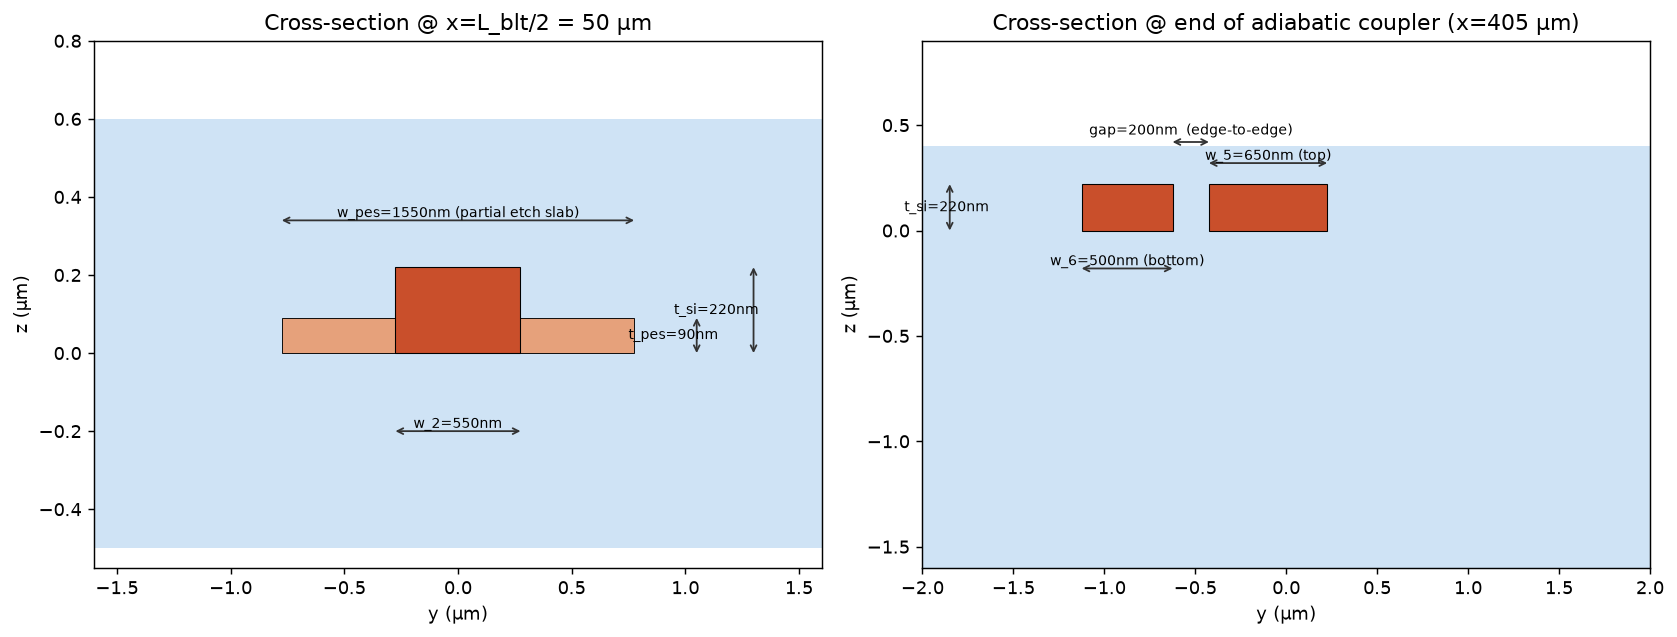
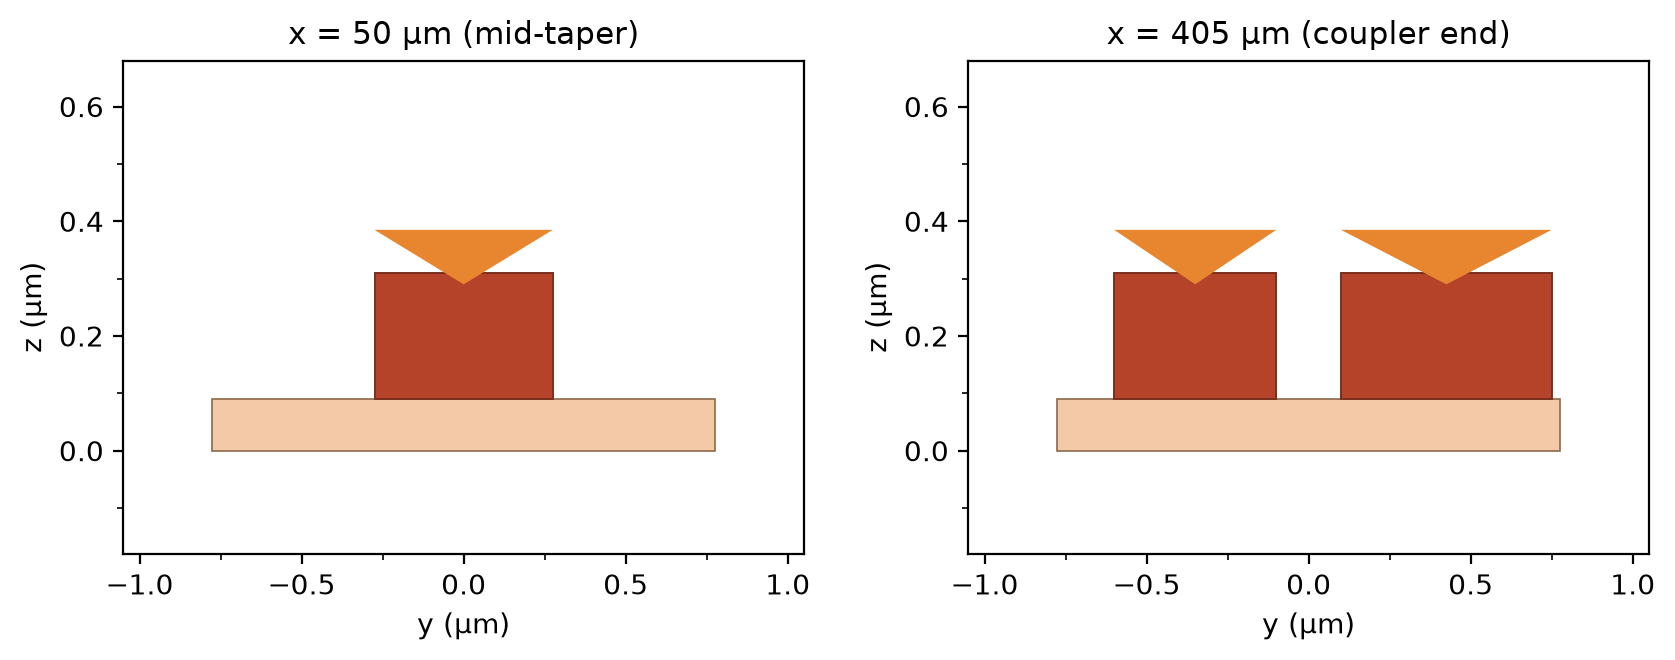
Split the whole-device figure into its two z-slice panels, redraw the cross-section figure in the clean plane-plot style (no dimension text on the figure), and use smaller markers in the column-sum figure

diff --git a/tools/make_fig_cross_sections.py b/tools/make_fig_cross_sections.py
@@ -1,0 +1,67 @@
+# make_fig_cross_sections.py -- fig 2 of the manuscript: the two cross-sections of the device,
+# drawn in the clean "plane plot" style asked for on 2026-09-28 (µm axes with ticks, a panel
+# frame, ports marked with arrows, and NO dimension text on the figure -- every dimension is
+# stated in the manuscript caption).
+#
+# Geometry: DEVICES["psr_rotator"] of make_structure_fig.py (slab 1.55 µm wide, 90 nm partial
+# etch, 220 nm Si, 200 nm edge-to-edge gap, w2 = 550 nm at mid-taper, w5/w6 = 650/500 nm at the
+# coupler end).
+#
+# Saved through fig_channel's metadata convention but WITHOUT the on-figure footer (author's
+# request: the footer blocked the drawing); the statement still goes into the PNG tEXt chunk.
+import os
+import sys
+
+import matplotlib
+
+matplotlib.use("Agg")
+import matplotlib.pyplot as plt                                          # noqa: E402
+from matplotlib.patches import Polygon, Rectangle                        # noqa: E402
+from matplotlib.ticker import AutoMinorLocator                           # noqa: E402
+
+HERE = os.path.dirname(os.path.abspath(__file__))
+sys.path.insert(0, HERE)
+import fig_channel as FC                                                 # noqa: E402
+
+OUT = os.path.join(HERE, "..", "figures", "device_cross_section.png")
+PROV = ("cross-sections re-drawn from the DEVICES['psr_rotator'] geometry "
+        "(not a solver export)")
+
+T_PES, T_SI = 0.090, 0.220            # partial-etch slab and Si thickness (µm)
+W_PES = 1.550                         # slab width (µm)
+GAP = 0.200                           # edge-to-edge gap between the two arms (µm)
+W2 = 0.550                            # rib width at x = 50 µm (mid-taper)
+W5, W6 = 0.650, 0.500                 # coupler arms (µm)
+
+SI = "#b5432a"                        # silicon
+PES = "#f3c9a8"                       # partial-etch slab
+PORT = "#e8862f"                      # port arrows (same language as the reference figure)
+
+PANELS = (
+    ("x = 50 µm (mid-taper)", [(0.0, W2)]),
+    ("x = 405 µm (coupler end)", [(+(GAP + W5) / 2, W5), (-(GAP + W6) / 2, W6)]),
+)
+
+fig, axs = plt.subplots(1, 2, figsize=(8.6, 3.4), dpi=200)
+for ax, (title, ribs) in zip(axs, PANELS):
+    ax.add_patch(Rectangle((-W_PES / 2, 0.0), W_PES, T_PES, fc=PES, ec="#8a6a4a",
+                           lw=0.6, zorder=2))
+    for yc, w in ribs:
+        ax.add_patch(Rectangle((yc - w / 2, T_PES), w, T_SI, fc=SI, ec="#7a2f1c",
+                               lw=0.7, zorder=3))
+        ax.add_patch(Polygon([[yc - w / 2, T_PES + T_SI + 0.075],
+                              [yc + w / 2, T_PES + T_SI + 0.075],
+                              [yc, T_PES + T_SI - 0.02]],
+                             closed=True, fc=PORT, ec="none", zorder=4))
+    ax.set_xlim(-1.05, 1.05)
+    ax.set_ylim(-0.18, 0.68)
+    ax.set_xlabel("y (µm)", fontsize=10)
+    ax.set_ylabel("z (µm)", fontsize=10)
+    ax.set_title(title, fontsize=11)
+    ax.xaxis.set_minor_locator(AutoMinorLocator(2))
+    ax.yaxis.set_minor_locator(AutoMinorLocator(2))
+    ax.tick_params(which="both", direction="out", top=False, right=False)
+fig.tight_layout()
+fig.savefig(OUT, bbox_inches="tight", metadata={FC.CHUNK: FC.statement("external", PROV)})
+plt.close(fig)
+print("wrote:", OUT, os.path.getsize(OUT), "bytes")

diff --git a/tools/make_fig_colsum_vs_modes.py b/tools/make_fig_colsum_vs_modes.py
@@ -60,9 +60,9 @@ ax = axs[0]
 xpos = [0.0, 1.0]
 for i, (x, m) in enumerate(zip(xpos, MODES)):
     v = COLSUM[m]
-    ax.plot([x, x], [min(v), max(v)], color="#8899aa", lw=4, solid_capstyle="round",
+    ax.plot([x, x], [min(v), max(v)], color="#8899aa", lw=2.5, solid_capstyle="round",
             zorder=1, alpha=0.55)
-    ax.plot([x] * len(v), v, "o", ms=5, mfc="white", mec="#1f4e79", mew=1.1,
+    ax.plot([x] * len(v), v, "o", ms=3.5, mfc="white", mec="#1f4e79", mew=0.9,
             zorder=3)
     # 数值标注与说明文字移交图注（见稿件 Fig. 3 的 \caption）
 ax.axhline(1.0, ls="--", lw=1.2, color="#b00020")
@@ -77,7 +77,7 @@ ax.grid(alpha=0.25, axis="y")
 # --------------------------------------------------------------- right panel
 ax = axs[1]
 conv = [CONV[m] for m in MODES]
-ax.plot(xpos, conv, "o-", color="#c94f2b", lw=1.4, ms=5)
+ax.plot(xpos, conv, "o-", color="#c94f2b", lw=1.1, ms=3.5)
 # 数值标签与 "delta = ..." 说明移交图注
 ax.set_xticks(xpos)
 ax.set_xticklabels(["%d modes" % m for m in MODES])
